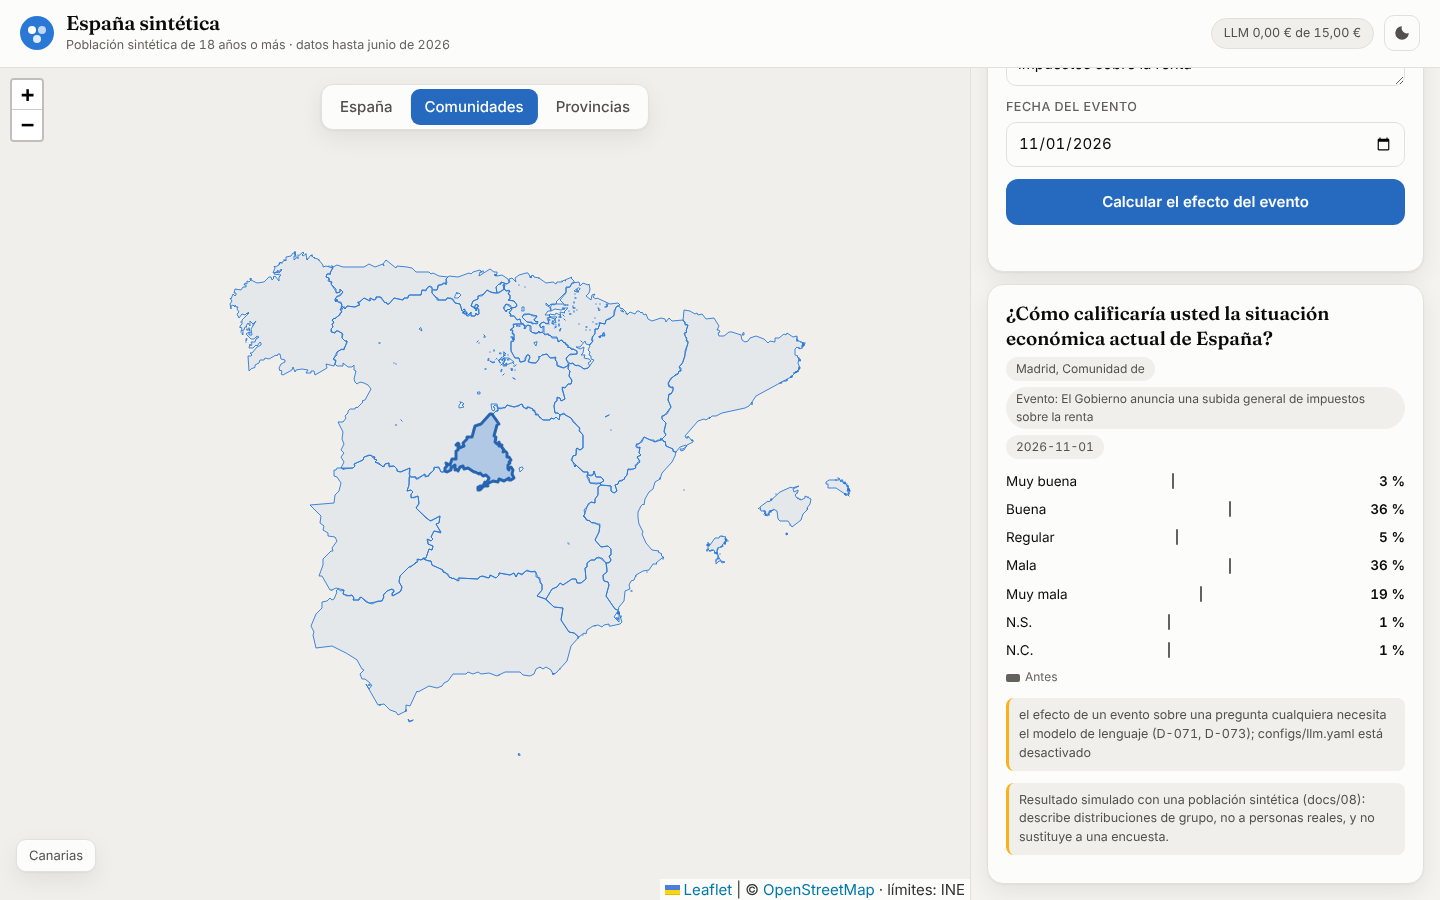
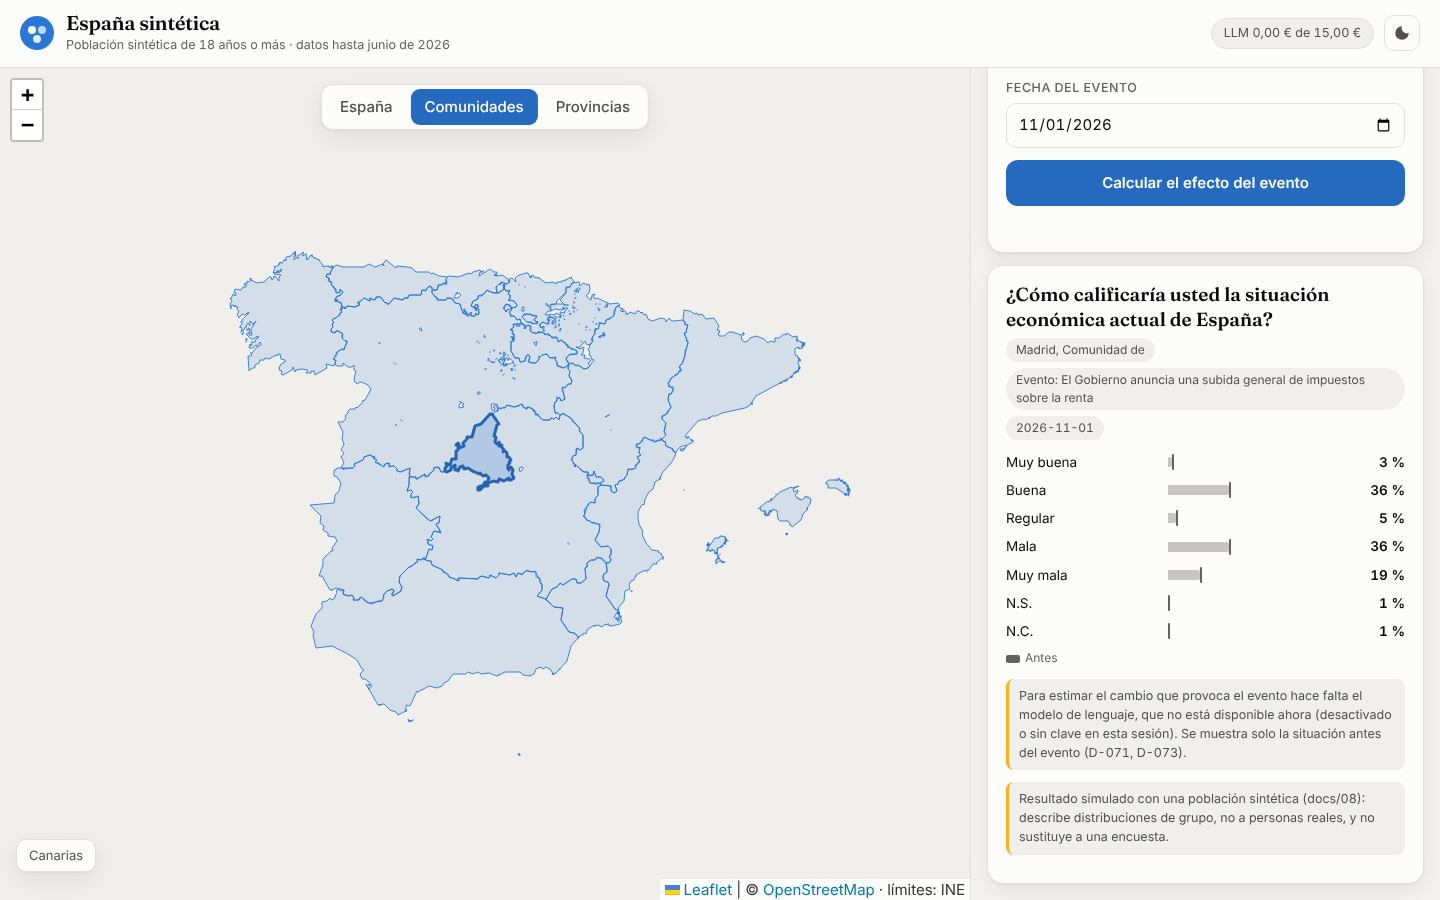
F14: informe, capturas en modo paquete y barra del «antes» en eventos
Claude-Session: https://claude.ai/code/session_01YEHryEmqEx38Xmxs1DbT8m

diff --git a/src/sinpop/servicio/web/app.js b/src/sinpop/servicio/web/app.js
@@ -482,6 +482,7 @@ function pintarEvento(r, enunciado, opciones, pob) {
     const izq = Math.min(a, d), ancho = Math.abs(d - a);
     return `<div class="etiqueta">${escapar(c.categoria)}</div>
       <div class="pista" data-o="${escapar(c.categoria)}" data-p="${a}" data-a80="${c.ic80_cambio?.[0] ?? 0}" data-b80="${c.ic80_cambio?.[1] ?? 0}" data-a95="${d}" data-b95="${d}">
+        <span class="barra" style="width:${100 * a}%;background:var(--texto-3);opacity:0.35"></span>
         <span class="ic80" style="left:${100 * izq}%;width:${100 * ancho}%"></span>
         <span class="marca-p" style="left:calc(${100 * a}% - 1px);background:var(--texto-3)"></span>
         ${conCambio ? `<span class="marca-p" style="left:calc(${100 * d}% - 1px);background:var(--serie);width:4px"></span>` : ""}

diff --git a/reports/fase_14.md b/reports/fase_14.md
@@ -1,0 +1,65 @@
+# Fase 14 · Interfaz web
+
+**Estado:** puertas automáticas superadas (`reports/fase_14_puerta.md`). **Pendiente de revisión humana (G14.4).**
+**Fecha:** 2026-10-22 · **Decisiones:** D-073, D-075, D-076
+**Comando:** `sinpop serve --paquete dist/paquete` y, con el servicio en marcha, `python tools/prueba_interfaz.py http://127.0.0.1:8000 && sinpop validate --phase 14`
+
+## Qué es
+
+Una página (`src/sinpop/servicio/web/`) servida por `sinpop serve`, sin pasos de compilación:
+
+- **Mapa** (Leaflet 1.9.4 con teselas de OpenStreetMap): selector de nivel (España, comunidades, provincias). Se pulsa un territorio para elegirlo. Los territorios con población lista se ven más marcados, y al pasar el ratón se ven los tamaños disponibles.
+- **Tamaño:** 10 mil, 50 mil, 100 mil, 500 mil y 1 millón de personas. Un punto verde marca las poblaciones listas.
+  - Con los datos originales se puede generar una población nueva desde ahí.
+  - En modo paquete, la interfaz avisa de que ese tamaño no está incluido y, al elegir territorio, pasa sola al tamaño disponible.
+- **Pregunta:** enunciado, opciones con plantillas habituales y la casilla «Incluir N.S. y N.C.». Mientras se escribe aparecen preguntas parecidas del banco del CIS, que se pueden reutilizar.
+- **Resultado:**
+  - barras con la estimación y los intervalos del 80 % y del 95 %;
+  - la confianza en una cifra grande, con su explicación;
+  - pestaña «Lo que piensa la población» / «Como lo mediría el CIS»;
+  - tabla de calor por subgrupos (edad, sexo, estudios, comunidad, recuerdo de voto);
+  - mapa coloreado por comunidad para la opción que se elija;
+  - las preguntas del CIS en que se apoya;
+  - el aviso de resultado simulado.
+- **«¿Y si ocurre…?» (evento):** muestra el antes y el después con el intervalo del cambio. Sin modelo de lenguaje enseña el antes y explica por qué no hay cambio estimado (D-073).
+- **Gasto del LLM** frente al tope, siempre visible arriba. Modo oscuro y diseño para móvil.
+- Colores, marcas y accesibilidad siguen la guía de visualización (paleta validada, una escala secuencial de un solo tono, texto en tinta y no en el color de la serie, tabla con valores escritos).
+
+## Pruebas (con el paquete, en una copia limpia del repositorio sin `data/`)
+
+`tools/prueba_interfaz.py` recorre la interfaz con Chromium real:
+
+| ID | Resultado | Evidencia |
+| --- | --- | --- |
+| G14.1 Extremo a extremo | ✅ | Pregunta sobre España, mapa coloreado, pregunta sobre Madrid (100 000), evento y exploración; 0 errores de JavaScript |
+| G14.2 Ninguna cifra sin intervalo ni confianza | ✅ | En el DOM: 7/7 barras con IC 80 % y 95 %, 28/28 celdas con confianza y aviso de simulación en todos los resultados, también en el evento |
+| G14.3 Accesibilidad | ✅ | axe-core: 0 avisos |
+| G14.4 Revisión humana | ⏸ | Pendiente |
+
+Además: en móvil (390 px) no hay desplazamiento horizontal.
+
+Capturas en `reports/fase_14/`:
+1. inicio;
+2. sugerencias del banco;
+3. resultado;
+4. mapa coloreado;
+5. comunidad;
+6. evento;
+7. modo oscuro;
+8. móvil.
+
+En el contenedor de trabajo las teselas de OpenStreetMap están bloqueadas, por eso las capturas muestran solo los límites del INE. En un equipo con internet se ve el mapa de fondo.
+
+## Paquete portable frente al modo completo
+
+La comparación está en `reports/fase_13/comparacion_paquete.json`; ver D-076.
+
+## Para la revisión humana (G14.4)
+
+```bash
+git clone <repositorio> && cd SyntheticPopulation
+pip install -e ".[web]"
+sinpop serve --paquete dist/paquete      # http://127.0.0.1:8000
+```
+
+Si la apruebas, añade en `DECISIONS.md` una entrada «### Aprobación de F14» con «**Estado:** aprobada».

diff --git a/reports/fase_14_puerta.md b/reports/fase_14_puerta.md
@@ -1,0 +1,12 @@
+# Puerta de la fase F14
+
+**Resultado:** superada  
+**Fecha:** 2026-10-22 · **Versión del código:** git:9b97a49-dirty  
+**Comando:** `sinpop validate --phase 14`
+
+| ID | Comprobación | Resultado | Valor | Umbral |
+| --- | --- | --- | --- | --- |
+| G14.1 | Pruebas de extremo a extremo de pregunta, evento y exploración | ✅ | 5 pantallas; 0 errores JS | pasan |
+| G14.2 | Ninguna cifra sin intervalo y confianza; aviso en todos los resultados | ✅ | cifras con intervalo, confianza y aviso | test automático |
+| G14.3 | Accesibilidad sin errores graves (axe-core) | ✅ | 0 avisos de axe-core | 0 críticos o graves |
+| G14.4 | Revisión humana de la interfaz | ⏸ | pendiente (reports/fase_14.md) | aprobación |
